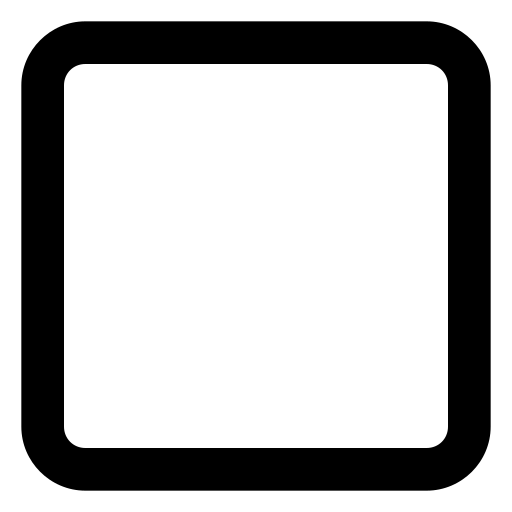
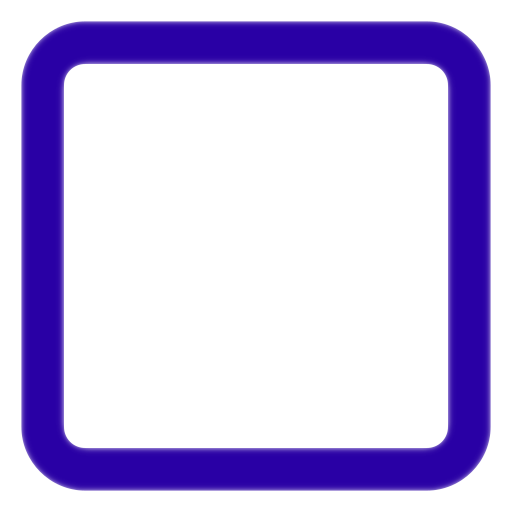
toolbar changes

Changed region(s): [[0.0312, 0.0312, 0.9688, 0.9688]]

diff --git a/src/frontend/src/components/layout/TitleBar.tsx b/src/frontend/src/components/layout/TitleBar.tsx
@@ -3,7 +3,7 @@ import { CONFIG } from "../../shared/config/AppConfig"
 
 export function TitleBar({ logoPath, title }: { logoPath: string, title: string }): JSX.Element {
     return (
-        <div className="h-1/15 bg-pink-800 flex justify-between px-1">
+        <div className="h-1/15 bg-pink-900 flex justify-between px-1">
             <div className="w-5 py-1">
                 <img src={logoPath} alt='logo' />
             </div>